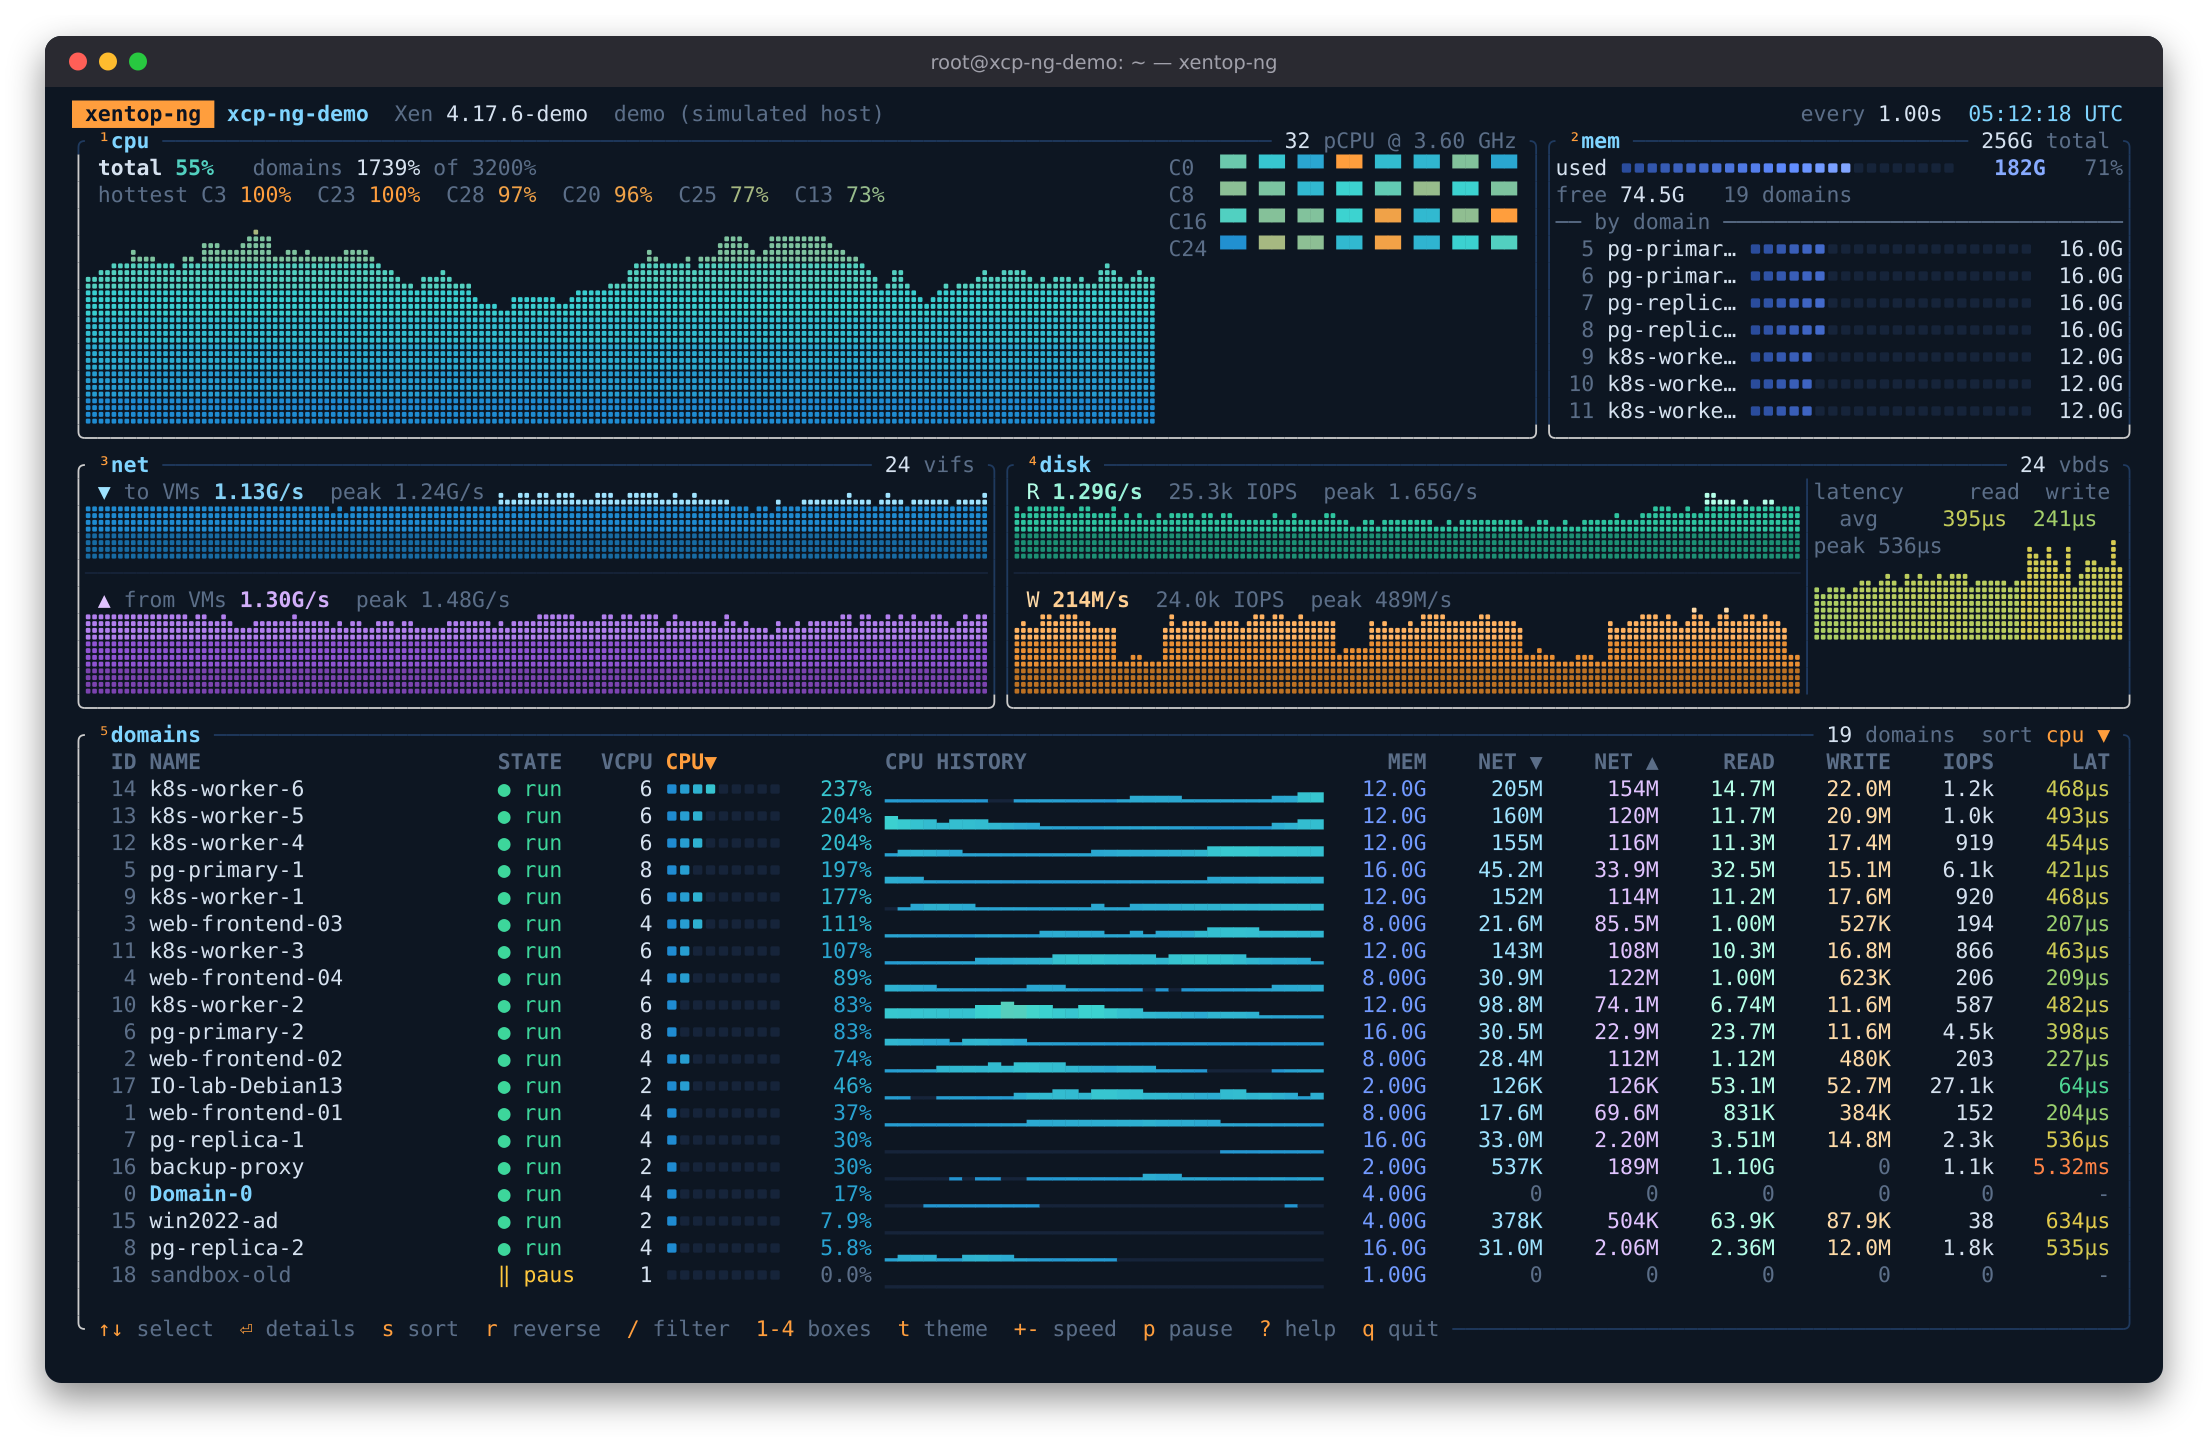
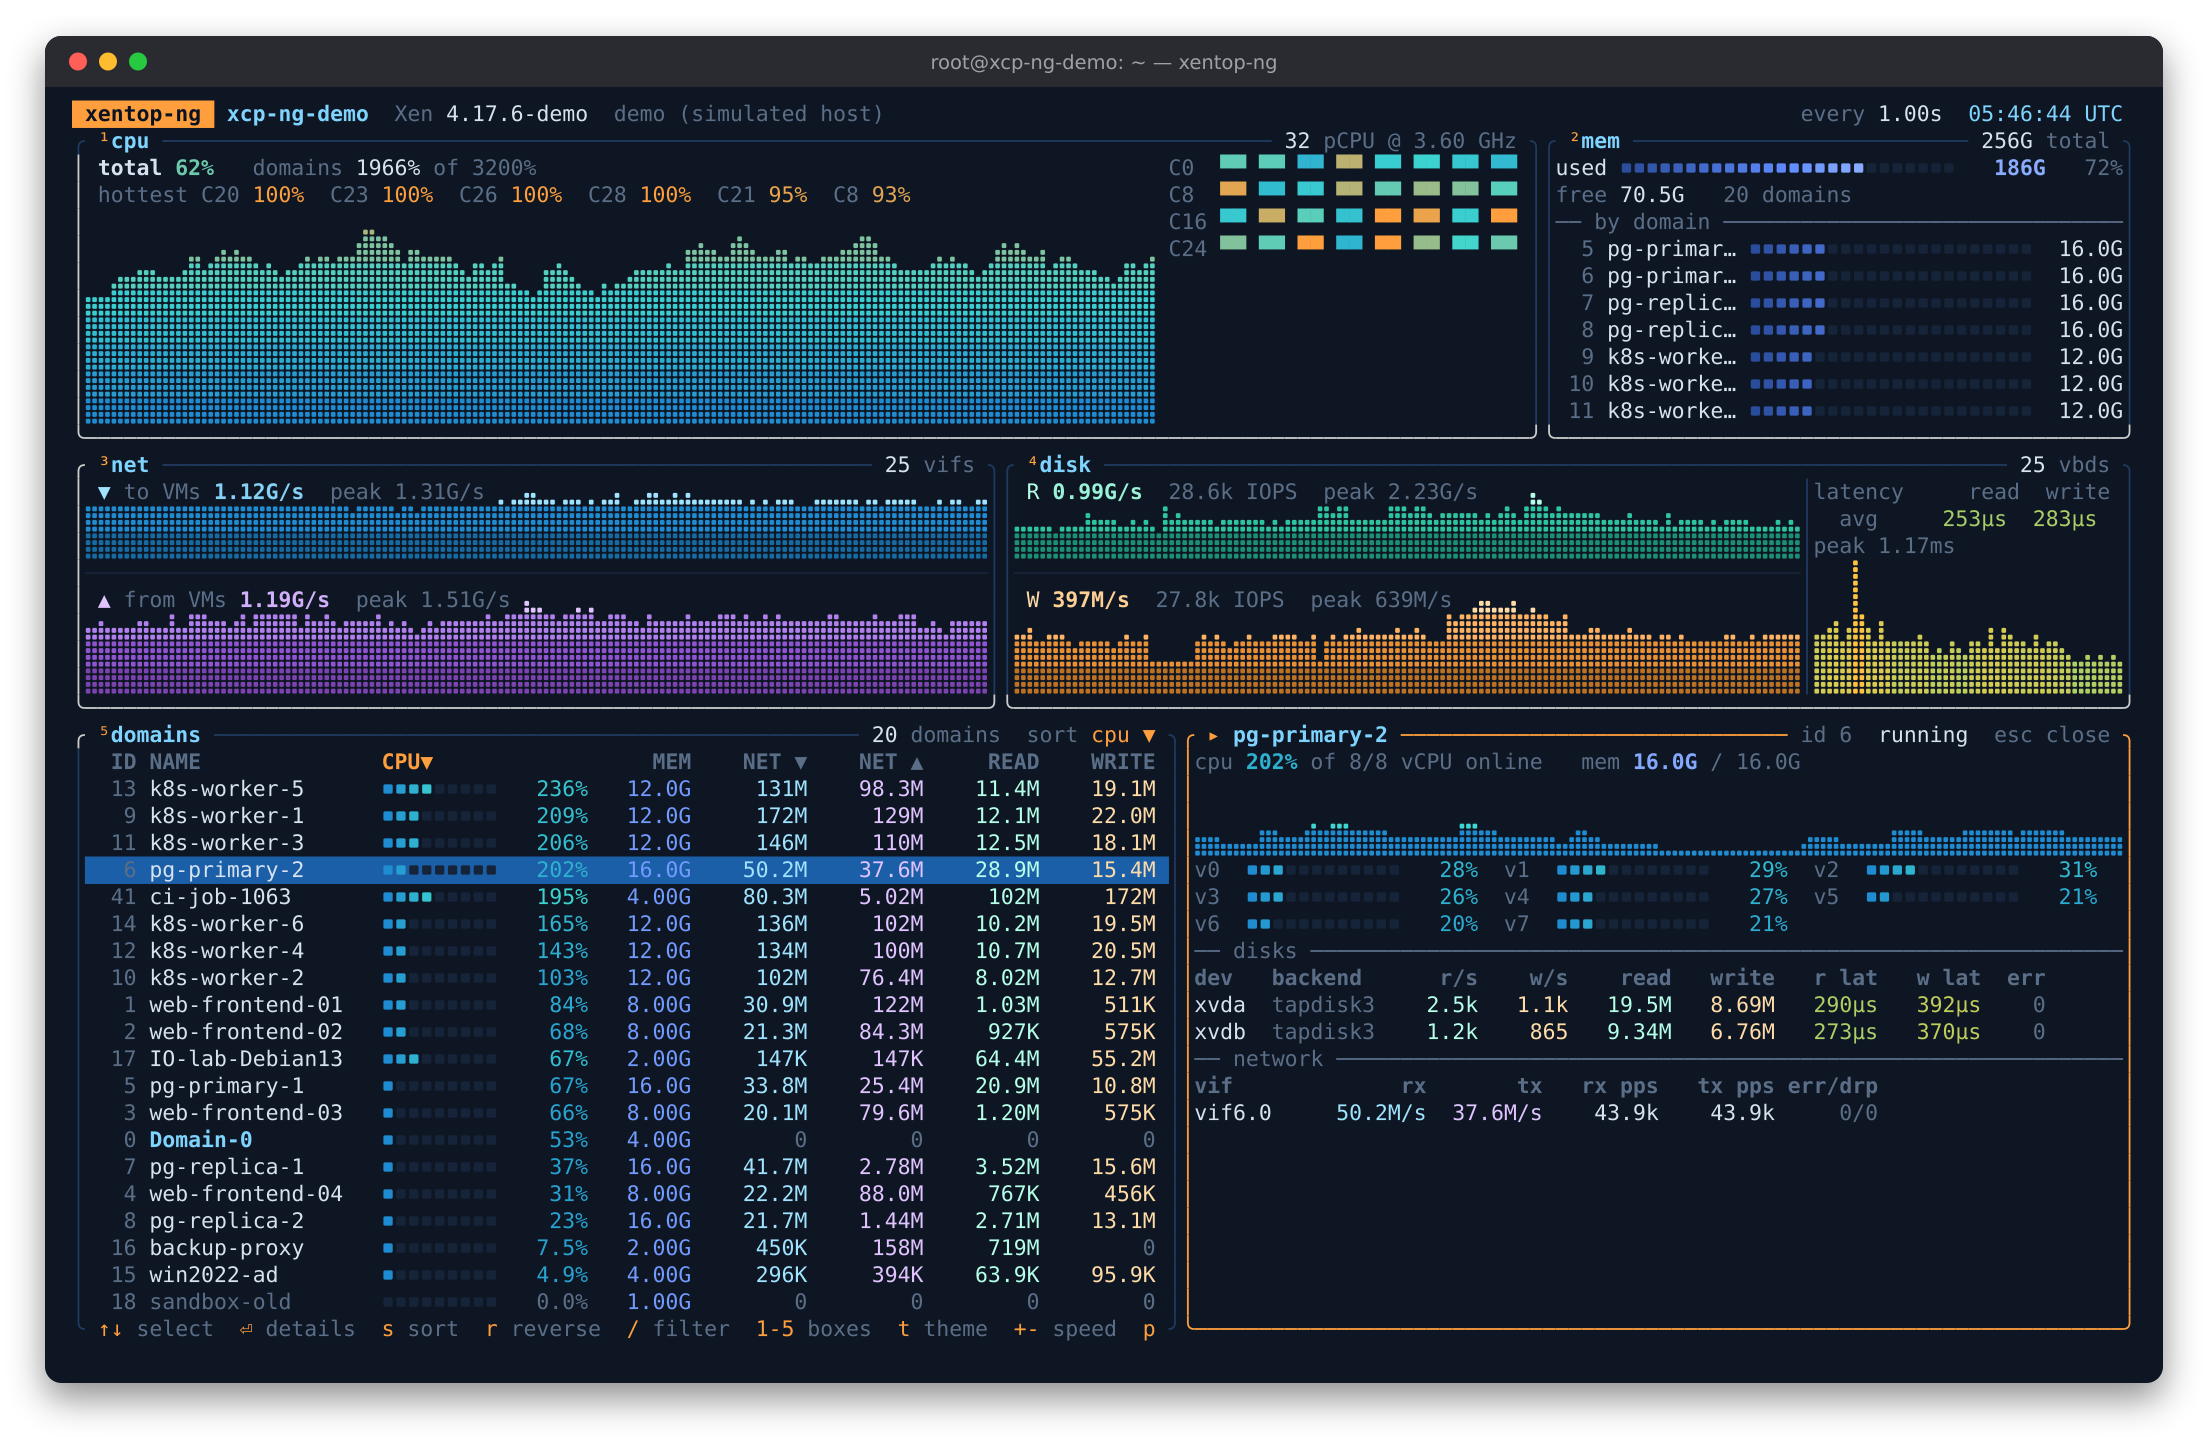
docs: animated tour GIF, refreshed screenshots
docs/tools/record.sh records a scripted demo session (docs/tools/tour.steps)
through the same renderer as the screenshots and assembles a GIF.

diff --git a/README.md b/README.md
@@ -4,7 +4,10 @@
 
 A modern, btop-inspired resource monitor for the Xen hypervisor.
 
-![xentop-ng on a simulated 128-pCPU, 1 TiB host](docs/xentop-ng.png)
+![xentop-ng tour: live graphs, domain details, themes, domains-only view](docs/xentop-ng.gif)
+
+<sub>Simulated 128-pCPU, 1 TiB host (`--demo-cpus 128 --demo-mem 1T`).
+[Full-size screenshot](docs/xentop-ng.png).</sub>
 
 `xentop` shows cumulative counters in a fixed ncurses table. xentop-ng shows
 what is happening **now**: rates per interval, history graphs, per-pCPU load,
@@ -29,6 +32,8 @@ per disk and per network interface.
 - **Domain details** (`⏎`): per-vCPU load, per-disk IOPS/throughput/latency,
   per-vif traffic, packets and errors.
 - **Themes**: `btop`, `xcp-ng`, `dracula`, `gruvbox`.
+- **Domains only**: `5` (or `--domains-only`) hides every other box; `5`
+  again brings them back.
 - **Mouse**: click to select, double-click for details, wheel to scroll.
 - **Batch mode**: one JSON object per interval, for scripts and benchmarks.
 - **Demo mode**: a simulated host of any size, no Xen needed.
@@ -66,7 +71,7 @@ Any `--demo-*` option implies `--demo`.
   256 GiB database VM per TiB of RAM from 512 GiB up.
 
 ```sh
-xentop-ng --demo-cpus 128 --demo-mem 1T                  # the screenshot above
+xentop-ng --demo-cpus 128 --demo-mem 1T                  # the tour above
 xentop-ng --demo-cpus 256 --demo-mem 2T --demo-load 85   # a busy large host
 xentop-ng --demo-cpus 4 --demo-mem 16G                   # a small lab box
 xentop-ng --demo-cpus 1024 --demo-mem 8T                 # stress the heatmap
@@ -209,8 +214,14 @@ dist/                 release packaging and the XCP-ng installer
 docs/                 screenshots and the tools that generate them
 ```
 
-Screenshots are generated from the demo:
-`docs/tools/screenshot.sh docs/xentop-ng.png 200x56 "" -- --demo-cpus 128 --demo-mem 1T`.
+Screenshots and the animated tour are generated from the demo, so they can
+be refreshed after any UI change:
+
+```sh
+docs/tools/screenshot.sh docs/xentop-ng.png 200x56 "" -- --demo-cpus 128 --demo-mem 1T
+docs/tools/screenshot.sh docs/detail.png 160x46 "j j j Enter" -- --demo-cpus 32 --demo-mem 256G --theme xcp-ng
+docs/tools/record.sh docs/xentop-ng.gif 160x45 docs/tools/tour.steps -- --demo-cpus 128 --demo-mem 1T
+```
 
 Ideas and possible next steps are in [IDEAS.md](IDEAS.md).
 
